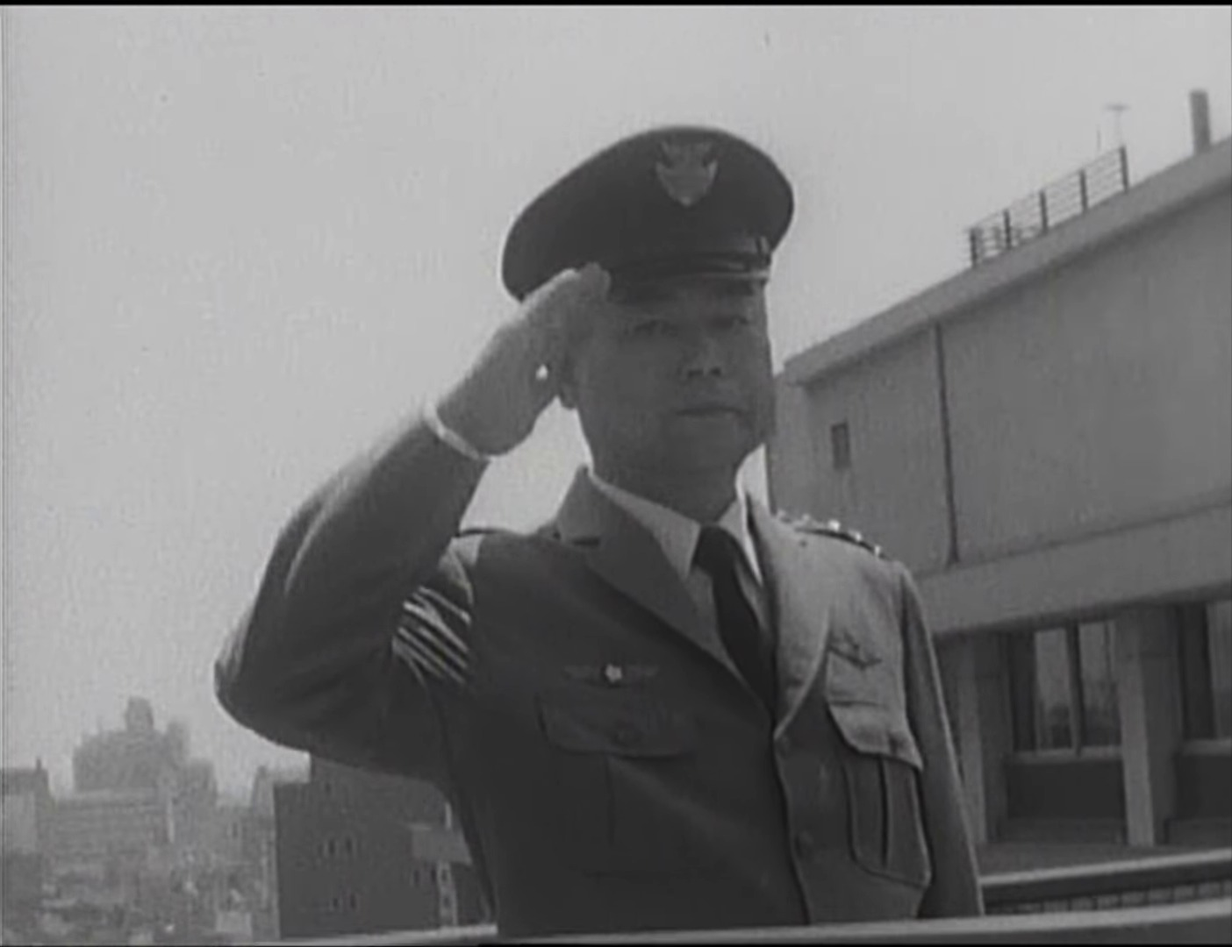
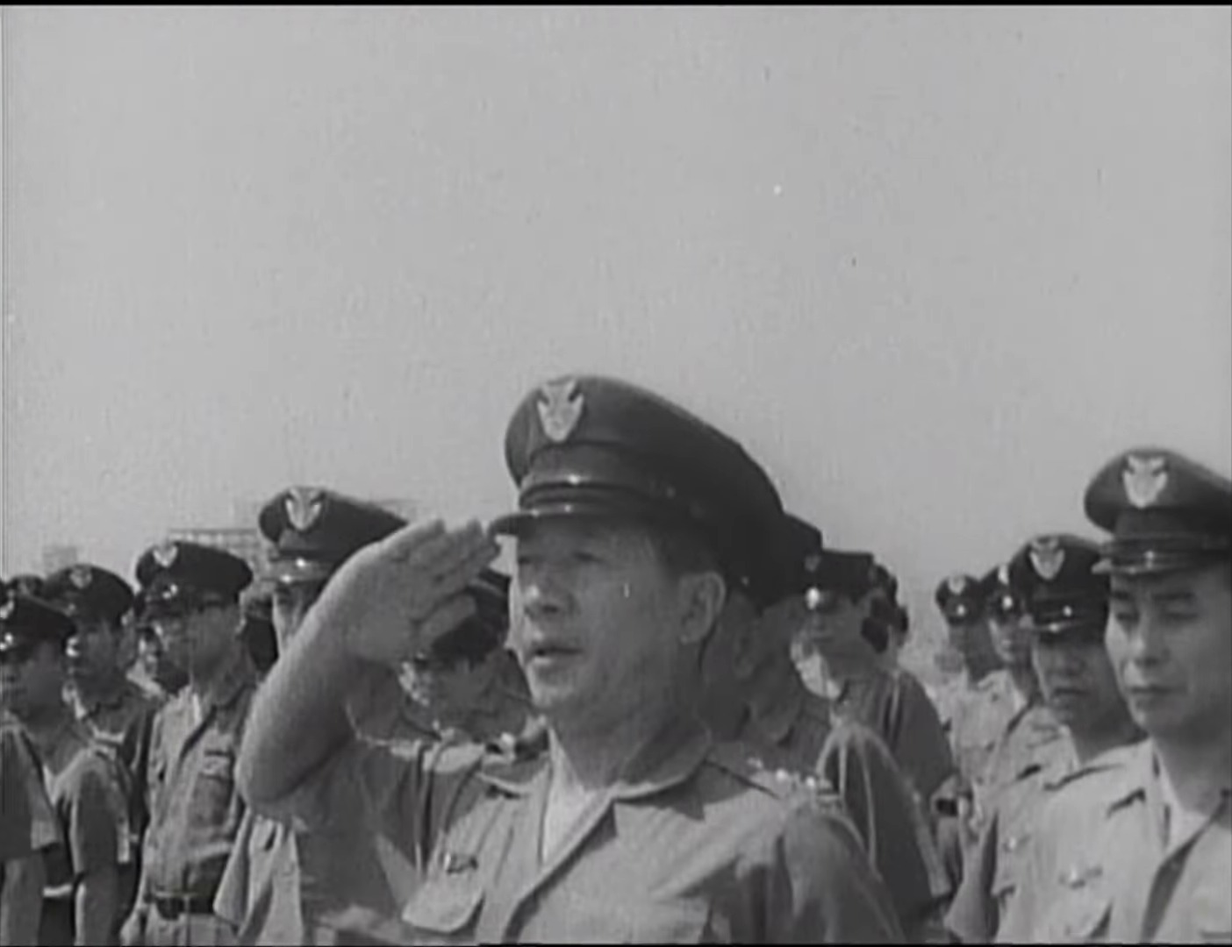
31本目 ⑤b-2：防衛庁記録の切れ目を測り直し（2コマ続く切り替え）・c107 を整列した隊員と半旗に
- 切れ目の道具の1本目（隣の3倍）は2コマ続く切り替えを落としていた（半旗 1208.874・式 1136.469）＝前後15コマの中央値の4倍で測り直した
- 試し焼き（Actions 42444546306）で c107 の絵が隊員の寄り＝副題「半旗」と合わなかった＝区間 1206.40〜1212.00・副題「整列した隊員と半旗」
- 外す秒は切り替えの尻まで＋前後 0.5秒（c101・c707 を詰めた）・c710 は 1136.60 から・c208 は 0.53倍。一覧 E 0・15欄とも fetch --check 合格

diff --git a/qa_out/ep31_assets.py b/qa_out/ep31_assets.py
@@ -986,17 +986,20 @@ S46_MEDIA = ("https://upload.wikimedia.org/wikipedia/commons/transcoded/a/a7/%E6
 S46_SIZE = 930511405                   # 変換版の大きさ（11-08 に HEAD で読んだ＝clips で照らす）
 S46_SEC = 2006.834                     # 変換版の長さ（11-08 に ffprobe の format=duration で読んだ）＝footage の「動画の終端を越える」の物差し
 # 🔴 off＝手元の写しの頭のキーフレームの元の秒（11-08 に変換版を ffprobe の範囲読みで測った＝MS 1097.997・MK 996.195。materials.md の MS 1098.5 は 0.503秒ずれていた）
-# edges＝場面の切れ目（元の秒・手元の写しの隣のコマの灰色の差＝64×36・中身の列だけ＝scratchpad cuts31.py・2コマ続く切り替わりは後のコマ）。章の外は表に入れない
+# edges＝場面の切れ目（元の秒＝切り替えのコマの頭・手元の写しの隣のコマの灰色の差＝64×36・中身の列だけ）。章の外は表に入れない
+#   🔧 11-08 の測り直し（scratchpad cuts31b.py）：1本目（cuts31.py＝隣の3倍）は2コマ続く切り替えを打ち消して落とした（半旗 1208.874・式 1136.469）＝
+#      差 ≥ max(8, 前後15コマの中央値の4倍)・3コマ以内に続く山は1つ。区間は切り替えの尻（頭＋続くコマ）より後から始める
 FILM = {"MS": dict(off=1097.997, file="src/bouei/s46_1105-1245_1080p.webm", md5="eb5364d81a2bd3b2f8f0d87e2d6f01ff",
                    what="昭和46年防衛庁記録（章「雫石事故」元 18:34〜20:38）",
-                   edges=(1117.383, 1120.486, 1123.322, 1130.663, 1134.734, 1144.377, 1148.381, 1157.823, 1161.827, 1164.830, 1167.667, 1168.000,
-                          1169.936, 1170.236, 1174.106, 1183.950, 1194.527, 1198.965, 1206.205, 1212.111, 1217.116, 1220.987, 1227.059, 1230.463, 1237.503)),
+                   edges=(1117.350, 1120.486, 1123.322, 1130.663, 1134.700, 1136.469, 1144.377, 1145.378, 1146.712, 1147.680, 1148.381, 1157.223,
+                          1161.827, 1164.830, 1169.902, 1174.106, 1183.950, 1193.893, 1194.226, 1194.393, 1198.931, 1205.371, 1208.874, 1212.078,
+                          1217.083, 1220.953, 1227.059, 1230.429, 1237.470)),
         "MK": dict(off=996.195, file="src/bouei/s46_1005-1077_1080p.webm", md5="3b29ef6d79f3d945460516bbc47bc09c",
                    what="昭和46年防衛庁記録（章「航空自衛隊部隊改編」元 16:50〜17:54）",
-                   edges=(1009.341, 1019.852, 1026.959, 1031.030, 1034.100, 1038.537, 1048.881, 1058.791, 1063.763, 1067.833, 1073.405))}
-# 🔴 外す秒＝その秒を含むショットまるごと＋前後 0.5秒（make_list31.EXCLUDE と同じ切れ目）。footage.NOGO の印 EP31_NOGO のあいだに書く
-FILM_NOGO = {"MS": [(1113.0, 1117.883, "新聞の紙面（報道と犠牲者の顔写真）"), (1130.163, 1135.234, "包んだ物の積み込み（搬送と見る）"),
-                    (1220.487, 1227.559, "参列者の近景（遺族が含まれうる）")]}
+                   edges=(1009.275, 1019.752, 1026.959, 1030.963, 1034.066, 1038.437, 1048.814, 1058.758, 1063.763, 1067.833, 1073.305))}
+# 🔴 外す秒＝その秒を含むショットまるごと（切り替えの尻まで）＋前後 0.5秒（make_list31.EXCLUDE と同じ切れ目）。footage.NOGO の印 EP31_NOGO のあいだに書く
+FILM_NOGO = {"MS": [(1113.346, 1117.917, "新聞の紙面（報道と犠牲者の顔写真）"), (1130.163, 1135.267, "包んだ物の積み込み（搬送と見る）"),
+                    (1220.453, 1227.626, "参列者の近景（遺族が含まれうる）")]}
 # 🔴 31本目の MS・MK は15カットとも額装（高さいっぱい）＝footage.PILLAR は書かない（書くと額の中が 1/PILLAR 倍に寄って上下が切れる）。
 #    器 1920×1080 の中身は x 252〜1660（幅1409＝4:3 より細い・11-08 に7＋5コマの列の中央値で測った）＝箱（ひかえの静止画の縦横比）に当てると
 #    左右の内側に器の黒が 4px ほど残る＝寄り 1.02（切り口 x 270〜1650）。ひかえの静止画は中身の x 254〜1658 を切る

diff --git a/ref/ep31/eizou_build/make_list31.py b/ref/ep31/eizou_build/make_list31.py
@@ -54,16 +54,18 @@ SLOW_MIN = 0.40                                   # §5b-17b＝0.33〜0.38倍は
 # 防衛庁記録『昭和46年』（Commons の CC BY 3.0）＝元の秒（動画の頭から）。手元の切り出し＝元の秒−OFF（materials.md §2・§2b）
 # 🔴 2026-11-08（⑤b-2）：OFF を Commons の変換版のキーフレームで測り直した（ffprobe の範囲読み）＝MS 1097.997（記録の 1098.5 は章の切れ目からの逆算で 0.503秒ずれ）・MK 996.195。
 #    ok＝章の中の使える範囲（場面の切れ目を灰色の差で測った＝MS は残骸の頭 1117.383〜章の終わり 1237.503・MK は F-86F の列の頭 1009.341〜次の章 1073.405）
-FOOT = {'MS': dict(off=1097.997, name='章「雫石事故」', ok=(1117.383, 1237.503)),
-        'MK': dict(off=996.195, name='章「航空自衛隊部隊改編」', ok=(1009.341, 1073.405))}
+#    🔧 同じ日の測り直し：切れ目の道具の1本目は「2コマ続く切り替え」を落としていた（半旗の 1208.874）＝前後15コマの中央値の4倍で測り直し、
+#    切り替えのコマの頭〜尻を区切りにした（外す秒は切り替えの尻まで）。`qa_out/ep31_assets.py` の FILM の edges と同じ値
+FOOT = {'MS': dict(off=1097.997, name='章「雫石事故」', ok=(1117.417, 1237.470)),
+        'MK': dict(off=996.195, name='章「航空自衛隊部隊改編」', ok=(1009.375, 1073.305))}
 # 外す秒（前後 0.5秒をあける）＝新聞の紙面（報道・犠牲者の顔写真）・包んだ物の積み込み（搬送と見る）・参列者の近景（私人の顔）
-# 🔴 ⑤b-2：実測の切れ目に直した。参列者の近景は 1220.987 から（780px のコマで見た＝記録の 1222.5 は切出の 124秒からの換算で、実際は 122.99秒で始まる）
-EXCLUDE = (('MS', 1113.5, 1117.383, '新聞の紙面＝報道の紙面と犠牲者の顔写真'), ('MS', 1130.663, 1134.734, '積み込み＝搬送と見て外す'),
-           ('MS', 1220.987, 1227.059, '参列者の近景＝遺族が含まれうる'))
+# 🔴 ⑤b-2：実測の切れ目に直した。参列者の近景は 1220.953 から（780px のコマで見た＝記録の 1222.5 は切出の 124秒からの換算で、実際は 122.96秒で始まる）
+EXCLUDE = (('MS', 1113.846, 1117.417, '新聞の紙面＝報道の紙面と犠牲者の顔写真'), ('MS', 1130.663, 1134.767, '積み込み＝搬送と見て外す'),
+           ('MS', 1220.953, 1227.126, '参列者の近景＝遺族が含まれうる'))
 MARGIN = 0.5
 # △＝中身を語りで確かめていない秒（副題は写っているものまで）
-TRI = (('MS', 1134.734, 1194.527, '室内の式と送り出し＝長官の離任の式と見られる（語りで未確認）', ('長官', '辞任', '離任', '着任', '大臣')),
-       ('MK', 1038.537, 1048.814, '滑走路＝どこの基地か未確認', ('松島', '浜松', '入間', '基地')))
+TRI = (('MS', 1134.767, 1193.893, '室内の式と送り出し＝長官の離任の式と見られる（語りで未確認）', ('長官', '辞任', '離任', '着任', '大臣')),
+       ('MK', 1038.570, 1048.814, '滑走路＝どこの基地か未確認', ('松島', '浜松', '入間', '基地')))
 EVENT = ('映像', '写真', '空中')                    # この事故と部隊と同じ型の写真・映像（紙面・衛星・場所を除く）
 COUNT20 = EVENT + ('衛星', '公的', '場所')          # §2-1 の写真・映像（紙面 ss.page を数える・衛星写真も実写）＝20% に数える
 PICTURE = COUNT20 + ('イメージ',)

diff --git a/tools/footage.py b/tools/footage.py
@@ -417,7 +417,7 @@ NOGO = {
     #    31本目の外す秒＝昭和46年防衛庁記録の章「雫石事故」の新聞の紙面（報道と犠牲者の顔写真）・包んだ物の積み込み（搬送と見る）・参列者の近景（遺族が含まれうる）
     #    ＝`ref/ep31/eizou_build/make_list31.py` の EXCLUDE（元の記録映画の秒・前後 0.5秒）＝束のチャットで clips.json の鍵が決まってから、その秒を含むショットまるごとで書く
     # EP31_NOGO>>> ここから（手で書かない）
-    "MS": [(1113.0, 1117.883, '新聞の紙面（報道と犠牲者の顔写真）'), (1130.163, 1135.234, '包んだ物の積み込み（搬送と見る）'), (1220.487, 1227.559, '参列者の近景（遺族が含まれうる）')],
+    "MS": [(1113.346, 1117.917, '新聞の紙面（報道と犠牲者の顔写真）'), (1130.163, 1135.267, '包んだ物の積み込み（搬送と見る）'), (1220.453, 1227.626, '参列者の近景（遺族が含まれうる）')],
     # EP31_NOGO>>> ここまで
 }
 
@@ -711,11 +711,11 @@ USE = {
     #   要る秒は `ref/ep31/eizou_build/list31.tsv` の cont（narration.json の実測の秒・扉を除く）。欄は束のチャットで道具から書き出す（手で書かない）＝下の印のあいだ。
     #   音は使わない（-an）・0.40倍より遅くしない・止めは区間の尻のコマで（`over31.psv` の「＋止め」）
     # EP31_USE>>> ここから（手で書かない）
-    "c101": dict(clip="MS", start=1117.90, until=1120.40, rate=0.4, hold=2.6, zoom=1.02),   # 読む 2.46秒（〜1120.36）／区間 2.50秒・要る 8.75秒・元の編集の切れ目 なし
+    "c101": dict(clip="MS", start=1117.95, until=1120.40, rate=0.4, hold=2.65, zoom=1.02),   # 読む 2.44秒（〜1120.39）／区間 2.45秒・要る 8.75秒・元の編集の切れ目 なし
     "c102": dict(clip="MS", start=1120.50, until=1123.30, rate=0.4, hold=0.5, zoom=1.02),   # 読む 2.76秒（〜1123.26）／区間 2.80秒・要る 7.41秒・元の編集の切れ目 なし
     "c104": dict(clip="MK", start=1010.00, until=1018.00, rate=1.0, zoom=1.02),   # 読む 7.95秒（〜1017.95）／区間 8.00秒・要る 7.95秒・元の編集の切れ目 なし
     "c106": dict(clip="MS", start=1231.50, until=1237.40, rate=0.5, hold=2.1, zoom=1.02),   # 読む 5.87秒（〜1237.37）／区間 5.90秒・要る 13.83秒・元の編集の切れ目 なし
-    "c107": dict(clip="MS", start=1202.50, until=1212.05, rate=0.8, zoom=1.02, edit=True),   # 読む 9.51秒（〜1212.01）／区間 9.55秒・要る 11.89秒・元の編集の切れ目 1206.2
+    "c107": dict(clip="MS", start=1206.40, until=1212.00, rate=0.48, hold=0.3, zoom=1.02, edit=True),   # 読む 5.56秒（〜1211.96）／区間 5.60秒・要る 11.89秒・元の編集の切れ目 1208.87
     # EP31_USE>>> ここまで
 }
 # ⚠ 2026-09-23（12本目 ⑤c' 直しE）：ここにあった前の回の注（9.11 の c621・c712／6本目キー橋の「まだ決まっていない

diff --git a/tools/cuts/c1.py b/tools/cuts/c1.py
@@ -68,6 +68,7 @@ SPEC.update({
     "c104": ss.vid("c104", panel=True, ptall=True, t="編隊の訓練", s="F-86F の列〈1971年・事故の2機ではない〉"),
     # c106＝防衛庁記録 MS 1231.50〜（日本武道館の会場の全景と看板・人は小さい）。0.50倍＋止め 2.1秒・1237.503 から次の章
     "c106": ss.vid("c106", panel=True, ptall=True, t="刑事の裁判", s="全日空機遭難者合同慰霊式〈1971年〉"),
-    # c107＝防衛庁記録 MS 1202.50〜（屋上の半旗・元の編集のまま場面をまたぐ＝edit）。0.80倍
-    "c107": ss.vid("c107", panel=True, ptall=True, t="3つの問い", s="半旗〈1971年・防衛庁記録〉"),
+    # c107＝防衛庁記録 MS 1206.40〜（屋上の整列した隊員 → 半旗＝元 1208.874〜・元の編集のまま場面をまたぐ＝edit）。0.48倍＋止め 0.3秒
+    #   🔧 ⑤b-2 の試し焼き（Actions 42444546306）で、前の区間 1202.5〜の 0.5 の絵が隊員の寄り＝副題「半旗」と合わなかった＝区間と副題を直した
+    "c107": ss.vid("c107", panel=True, ptall=True, t="3つの問い", s="整列した隊員と半旗〈1971年・防衛庁記録〉"),
 })

diff --git a/ref/ep31/eizou_list31.md b/ref/ep31/eizou_list31.md
@@ -19,7 +19,7 @@ tags: [project/jiko-kensho, ep31]
 | 図 | 144 カット（札 113・模式 20・ほか 11＝地はすべて写真） | 札の型は描き手1つ（§5）・地は暗くするだけ・動かさない |
 | 見せ方（写真・映像・紙面・イメージ） | 額装（高さいっぱい） 44・全面 41・額装（衛星） 12 | 額装は静止 |
 | 動き | 静止 41・ゆっくり寄る 41・映像 15 | 全面は寄る／流す |
-| 🔧 台本の画の欄から替えたカット | 42 | 台本は直さない＝⑤b はこの一覧に従う |
+| 🔧 台本の画の欄から替えたカット | 43 | 台本は直さない＝⑤b はこの一覧に従う |
 | 種類 | 札 113・イメージ 33・公的 22・模式 20・映像 15・衛星 12・写真 6・空中 5・場所 4・帯 2・年表 2・比べ 2・並べ 1・流れ 1・方位 1・表 1・条文 1 | — |
 | 合計 | 241 カット・36:20.8（audio/narration.json の実測・ed01 を除く） | — |
 
@@ -71,13 +71,13 @@ tags: [project/jiko-kensho, ep31]
 
 | カット | 秒 | 語りの頭 | 画 |
 |---|---|---|---|
-| c101 | 0:00.0〜0:08.7 | 1971年7月30日の午後、岩手県雫石町 | 映像 MS＝事故の現場〈1971年7月・防衛庁記録〉（映像 1117.90〜1120.40秒（0.40倍速）（＋止め 2.6秒）） |
+| c101 | 0:00.0〜0:08.7 | 1971年7月30日の午後、岩手県雫石町 | 映像 MS＝事故の現場〈1971年7月・防衛庁記録〉（映像 1117.95〜1120.40秒（0.40倍速）（＋止め 2.65秒）） |
 | c102 | 0:08.7〜0:16.2 | ぶつかった高さは、およそ8,500メート | 映像 MS＝事故の現場〈1971年7月・防衛庁記録〉（映像 1120.50〜1123.30秒（0.40倍速）（＋止め 0.5秒）） |
 | c103 | 0:16.2〜0:25.9 | どんな旅客機だったの？全日空のボーイング | 写真 P1＝事故の2か月前の事故機〈JA8329・1971年5月〉（静止） |
 | c104 | 0:25.9〜0:33.8 | 戦闘機は、宮城県の松島基地を飛び立った、 | 映像 MK＝同じ型の F-86F〈1971年・防衛庁記録〉＝事故の2機ではない（映像 1010.00〜1018.00秒） |
 | c105 | 0:33.8〜0:44.9 | どうして、そんな所でぶつかったの？その日 | 衛星 SAT:東北＝（静止） |
 | c106 | 0:44.9〜0:58.7 | 刑事の裁判は、教官と訓練生の2人を被告と | 映像 MS＝全日空機遭難者合同慰霊式〈1971年・日本武道館・防衛庁記録〉（映像 1231.50〜1237.40秒（0.50倍速）（＋止め 2.1秒）） |
-| c107 | 0:58.7〜1:10.6 | なぜ、そうなったのか。この動画は、3つの | 映像 MS＝半旗〈1971年・防衛庁記録〉（映像 1202.50〜1212.05秒（0.80倍速）） |
+| c107 | 0:58.7〜1:10.6 | なぜ、そうなったのか。この動画は、3つの | 映像 MS＝整列した隊員と半旗〈1971年・防衛庁記録〉（映像 1206.40〜1212.00秒（0.48倍速）（＋止め 0.3秒）） |
 
 ## §2 章ごと・カットごと
 
@@ -86,13 +86,13 @@ tags: [project/jiko-kensho, ep31]
 
 | カット | 秒 | 語りの頭 | 種類 | 素材 | 地 | 見せ方 | 副題・札 | 動き | 🔧 | 備考 |
 |---|---|---|---|---|---|---|---|---|---|---|
-| c101 | 0:00.0（8.7） | 1971年7月30日の午後、岩手県雫石町 | 映像 | MS | — | 額装（高さいっぱい） | 事故の現場〈1971年7月・防衛庁記録〉 | 映像 1117.90〜1120.40秒（0.40倍速）（＋止め 2.6秒） | 🔧 速さ 0.28倍 → 0.40倍＋止め（§5b-17b） | 元 1117.383〜1120.486 のショット＝森の中の残骸。直前が ✕ の新聞の紙面（〜1117.383＋0.5秒）。✅ ⑤b-2 に原寸（1118.0・1120.3）で見た＝遺体・遺品なし・字は機体の社名の一部だけ ［冒頭］ |
+| c101 | 0:00.0（8.7） | 1971年7月30日の午後、岩手県雫石町 | 映像 | MS | — | 額装（高さいっぱい） | 事故の現場〈1971年7月・防衛庁記録〉 | 映像 1117.95〜1120.40秒（0.40倍速）（＋止め 2.65秒） | 🔧 速さ 0.28倍 → 0.40倍＋止め（§5b-17b） | 元 1117.350〜1120.486 のショット（切り替え 1117.350〜1117.417）＝森の中の残骸。直前が ✕ の新聞の紙面（〜1117.383＋0.5秒）。✅ ⑤b-2 に原寸（1118.0・1120.3）で見た＝遺体・遺品なし・字は機体の社名の一部だけ ［冒頭］ |
 | c102 | 0:08.7（7.4） | ぶつかった高さは、およそ8,500メート | 映像 | MS | — | 額装（高さいっぱい） | 事故の現場〈1971年7月・防衛庁記録〉 | 映像 1120.50〜1123.30秒（0.40倍速）（＋止め 0.5秒） | 🔧 速さ 0.36倍 → 0.40倍＋止め（§5b-17b） | 元 1120.486〜1123.322 のショット＝階段のような骨組みの部分（何の部分かは名乗らない）。✅ ⑤b-2 に原寸（1122.0）で見た＝踏み板の上の小物はぼけて形が分からない ［冒頭］ |
 | c103 | 0:16.2（9.7） | どんな旅客機だったの？全日空のボーイング | 写真 | P1 | — | 額装（高さいっぱい） | 事故の2か月前の事故機〈JA8329・1971年5月〉 | 静止 | — | 額装・無加工・丸ごと・字を重ねない・この1カットだけ（BY-SA） ［冒頭］ |
 | c104 | 0:25.9（8.0） | 戦闘機は、宮城県の松島基地を飛び立った、 | 映像 | MK | — | 額装（高さいっぱい） | 同じ型の F-86F〈1971年・防衛庁記録〉＝事故の2機ではない | 映像 1010.00〜1018.00秒 | — | 部隊改編の章の F-86F の列＝事故の2機ではない（副題で断る） ［冒頭］ |
 | c105 | 0:33.8（11.1） | どうして、そんな所でぶつかったの？その日 | 衛星 | SAT:東北 | — | 額装（衛星） |  | 静止 | — | 引き（44.4秒）＝幹部が指で示して決めた（最高裁）。衛星の額の地は方眼のまま ［冒頭］ |
 | c106 | 0:44.9（13.8） | 刑事の裁判は、教官と訓練生の2人を被告と | 映像 | MS | — | 額装（高さいっぱい） | 全日空機遭難者合同慰霊式〈1971年・日本武道館・防衛庁記録〉 | 映像 1231.50〜1237.40秒（0.50倍速）（＋止め 2.1秒） | 🔧 速さ 0.41倍 → 0.50倍＋止め | 元 1230.463〜1237.503 のショット＝会場の全景と看板（⑤b-2 に灰色の差で測った・1237.503 から次の章）。人は小さい（参列者の近景は ✕） ［冒頭］ |
-| c107 | 0:58.7（11.9） | なぜ、そうなったのか。この動画は、3つの | 映像 | MS | — | 額装（高さいっぱい） | 半旗〈1971年・防衛庁記録〉 | 映像 1202.50〜1212.05秒（0.80倍速） | — | 屋上の半旗。元 1194.527〜1212.111 の屋上の場面（中に 1198.965・1206.205 の切れ目＝元の編集のまま）・1212.111 から武道館の外観 ［冒頭］ |
+| c107 | 0:58.7（11.9） | なぜ、そうなったのか。この動画は、3つの | 映像 | MS | — | 額装（高さいっぱい） | 整列した隊員と半旗〈1971年・防衛庁記録〉 | 映像 1206.40〜1212.00秒（0.48倍速）（＋止め 0.3秒） | 🔧 区間と副題（⑤b-2 の試し焼きで、前の区間 1202.5〜は敬礼と隊員の寄りが大半＝副題「半旗」と絵が合わなかった） | 屋上の場面の後半＝整列した隊員（1206.4〜）→ 半旗（元 1208.874〜1212.078 のショット・3.2秒）。元の編集のまま場面をまたぐ・1212.078 から武道館の外観 ［冒頭］ |
 
 ### 第1章　1本の道と2つの機体（17カット）
 
@@ -105,7 +105,7 @@ tags: [project/jiko-kensho, ep31]
 | c205 | 1:50.7（14.0） | 議員のまとめでは、13時46分に、函館の | 帯 | — | G:夏の雲の上 | — | 全日空機の時刻の帯＝13:33 千歳 → 13:46 函館の上・約6,700メートル → 13:50 約8,500メート | — | — | — |
 | c206 | 2:04.7（3.4） | J11Lを、北から南へ下っていく道だ。 | 衛星 | SAT:函館から松島 | — | 額装（衛星） |  | 静止 | — | — |
 | c207 | 2:08.1（8.8） | もう一方は、航空自衛隊の戦闘機、F-86 | 写真 | P5 | — | 額装（高さいっぱい） | 同じ型の F-86F〈航空自衛隊・この機体ではない〉 | 静止 | 🔧 全面 → 高さいっぱいの額（幅1000px・4:3） | SDASM＝PD と書かない。操縦席の人は公的な任務の操縦者。撮影年は不明＝副題に年を書かない |
-| c208 | 2:16.9（7.8） | 防衛庁の1971年の記録映像には、「第一 | 映像 | MK | — | 額装（高さいっぱい） | 『第一航空団 松島派遣隊』の札〈1971年・防衛庁記録〉 | 映像 1034.20〜1038.45秒（0.54倍速） | — | 元 1034.100〜1038.537 のショット＝札を掛ける（⑤b-2 に灰色の差と 780px のコマで見た＝1038.537 から滑走路） |
+| c208 | 2:16.9（7.8） | 防衛庁の1971年の記録映像には、「第一 | 映像 | MK | — | 額装（高さいっぱい） | 『第一航空団 松島派遣隊』の札〈1971年・防衛庁記録〉 | 映像 1034.20〜1038.40秒（0.53倍速） | — | 元 1034.066〜1038.437 のショット＝札を掛ける（⑤b-2 に灰色の差と 780px のコマで見た＝1038.437〜1038.570 の切り替えから滑走路） |
 | c209 | 2:24.7（10.6） | 教官と訓練生は、どんな人だったの？防衛庁 | 札 | — | MS | — | 2人の札＝教官〈一等空尉〉・訓練生〈二等空曹〉＝防衛庁長官の報告の階級・名前と顔は描かない | — | — | — |
 | c210 | 2:35.3（7.9） | 2機がしていたのは、機動隊形という編隊の | 模式 | — | G:夏の青空 | — | 機動隊形の訓練＝前の教官機が左右に旋回し、うしろの訓練機が決まった位置を保ってついていく矢印 | — | — | — |
 | c211 | 2:43.2（12.0） | 前の機についていくだけでも、大変そう。最 | 写真 | P6 | — | 全面 | 保存されている同じ型の F-86F〈この機体ではない〉 | ゆっくり寄る | — | 82-7865 の全景＝人なし（11-08 に見た） |
@@ -247,10 +247,10 @@ tags: [project/jiko-kensho, ep31]
 | c704 | 19:45.8（9.1） | 政府は、事故の日のうちに、総理府に全日空 | 札 | — | A2 | — | 全日空機事故対策本部の札＝総理府・7月30日・本部長は運輸大臣〈運輸大臣の報告〉 | — | — | — |
 | c705 | 19:54.9（8.3） | 8月2日の国会で、運輸大臣は、162人の | 札 | — | A2 | — | 運輸大臣の言葉の札＝「つつしんで心より深くおわびを申し上げる」〈1971年8月2日・参議院 運輸委員会〉 | — | — | — |
 | c706 | 20:03.3（7.8） | 東京の日本武道館では、全日空機遭難者合同 | 映像 | MS | — | 額装（高さいっぱい） | 全日空機遭難者合同慰霊式〈1971年・日本武道館・防衛庁記録〉 | 映像 1212.20〜1216.60秒（0.56倍速） | — | 日本武道館の外観と看板（元 1212.111〜1217.116 のショット） |
-| c707 | 20:11.1（11.1） | 家族の人たちは？運輸大臣によると、現地に | 映像 | MS | — | 額装（高さいっぱい） | 祭壇〈1971年・日本武道館・防衛庁記録〉 | 映像 1227.60〜1231.40秒（0.40倍速）（＋止め 1.6秒） | 🔧 速さ 0.35倍 → 0.40倍＋止め・副題 | 祭壇の「…空機遭難者之霊位」の寄り（元 1227.059〜1230.463）から会場の全景へ（元の編集のまま）。1227.059 までが ✕ の参列者の近景＝0.5秒あける |
+| c707 | 20:11.1（11.1） | 家族の人たちは？運輸大臣によると、現地に | 映像 | MS | — | 額装（高さいっぱい） | 祭壇〈1971年・日本武道館・防衛庁記録〉 | 映像 1227.65〜1231.40秒（0.40倍速）（＋止め 1.7秒） | 🔧 速さ 0.35倍 → 0.40倍＋止め・副題 | 祭壇の「…空機遭難者之霊位」の寄り（元 1227.059〜1230.429）から会場の全景へ（元の編集のまま）。1227.126（切り替えの尻）までが ✕ の参列者の近景＝0.5秒あける |
 | c708 | 20:22.1（8.0） | 防衛庁は、遺族の家を1軒ずつ弔問し、ほと | 札 | — | A2 | — | 遺族への連絡の札＝家を1軒ずつ弔問・ほとんどの家に連絡の係を1人〈防衛庁長官の報告〉・人の形は使わない | — | — | — |
 | c709 | 20:30.1（6.9） | 運輸大臣は国会で、自衛隊の訓練飛行を、当 | 映像 | MS | — | 額装（高さいっぱい） | 屋上の隊員〈1971年・防衛庁記録〉 | 映像 1194.60〜1202.40秒 | — | 屋上の隊員（元 1194.527 から・中に 1198.965 の切れ目＝元の編集のまま） |
-| c710 | 20:37.0（7.1） | 防衛庁の長官は、事故のあと辞任した。8月 | 映像 | MS | — | 額装（高さいっぱい） | 防衛庁の式〈1971年・防衛庁記録〉 | 映像 1135.30〜1144.30秒 | — | △ 長官の離任の式と見られる。記録の章立てでは1971年の長官の離着任式の章は 13:05（7月）と 28:38（12月）だけ＝8月の式は章「雫石事故」の中（推測）。カズヤくんが語りを聞くまで副題は写っている物まで。元 1134.734〜1144.377 のショット ［△］ |
+| c710 | 20:37.0（7.1） | 防衛庁の長官は、事故のあと辞任した。8月 | 映像 | MS | — | 額装（高さいっぱい） | 防衛庁の式〈1971年・防衛庁記録〉 | 映像 1136.60〜1144.30秒 | — | △ 長官の離任の式と見られる。記録の章立てでは1971年の長官の離着任式の章は 13:05（7月）と 28:38（12月）だけ＝8月の式は章「雫石事故」の中（推測）。カズヤくんが語りを聞くまで副題は写っている物まで。元 1136.469〜1144.377 のショット（1134.700〜1136.469 は別のショット） ［△］ |
 | c711 | 20:44.2（8.2） | 新しい長官によると、前の長官は、事故の知 | 映像 | MS | — | 額装（高さいっぱい） | 演壇で礼をする人〈1971年・防衛庁記録〉 | 映像 1157.90〜1164.75秒（0.83倍速） | 🔧 副題 | △ c710 と同じ。元 1157.823〜1164.830（中に 1161.827 の切れ目＝礼から2人の寄りへ・元の編集のまま） ［△］ |
 | c712 | 20:52.4（8.7） | 同じ1971年7月には、3日にも、旅客機 | 札 | — | G:夏の山並み | — | 1971年7月の2つの事故の札＝3日 ばんだい号〈北海道の七飯町の山・68人〉と、30日 この事故〈運輸白書〉 | — | — | — |
 | c713 | 21:01.1（7.2） | ばんだい号では、68人が亡くなった。その | 公的 | W47-1 | — | 額装（高さいっぱい） |  | 静止 | — | — |
@@ -521,17 +521,17 @@ tags: [project/jiko-kensho, ep31]
   - ⚠ c101 映像が等速でない（0.40倍速）
   - ⚠ c102 映像が等速でない（0.40倍速）
   - ⚠ c106 映像が等速でない（0.50倍速）
-  - ⚠ c107 映像が等速でない（0.80倍速）
-  - ⚠ c208 映像が等速でない（0.54倍速）
+  - ⚠ c107 映像が等速でない（0.48倍速）
+  - ⚠ c208 映像が等速でない（0.53倍速）
   - ⚠ c301 映像が等速でない（0.74倍速）
-  - ⚠ c301 △ の秒 1038.5〜1048.8＝滑走路＝どこの基地か未確認
+  - ⚠ c301 △ の秒 1038.6〜1048.8＝滑走路＝どこの基地か未確認
   - ⚠ c304 映像が等速でない（0.80倍速）
   - ⚠ c701 映像が等速でない（0.66倍速）
   - ⚠ c706 映像が等速でない（0.56倍速）
   - ⚠ c707 映像が等速でない（0.40倍速）
-  - ⚠ c710 △ の秒 1134.7〜1194.5＝室内の式と送り出し＝長官の離任の式と見られる（語りで未確認）
+  - ⚠ c710 △ の秒 1134.8〜1193.9＝室内の式と送り出し＝長官の離任の式と見られる（語りで未確認）
   - ⚠ c711 映像が等速でない（0.83倍速）
-  - ⚠ c711 △ の秒 1134.7〜1194.5＝室内の式と送り出し＝長官の離任の式と見られる（語りで未確認）
+  - ⚠ c711 △ の秒 1134.8〜1193.9＝室内の式と送り出し＝長官の離任の式と見られる（語りで未確認）
   - ⚠ cc15 映像が等速でない（0.40倍速）
 
 ## §5 映像方針で決めたこと
